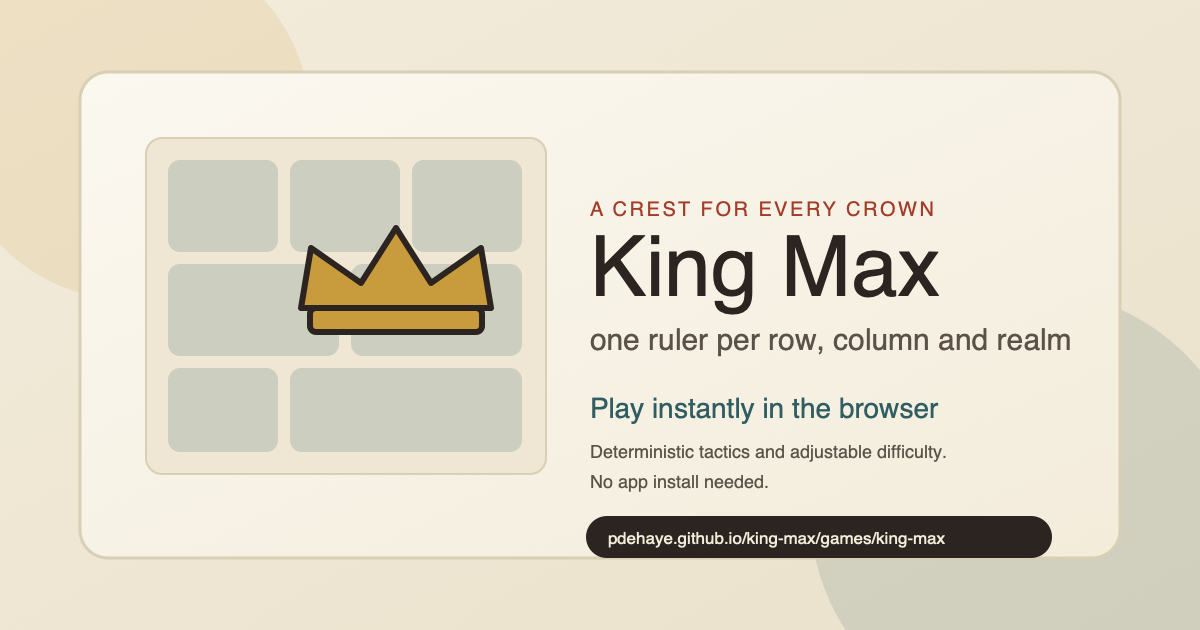
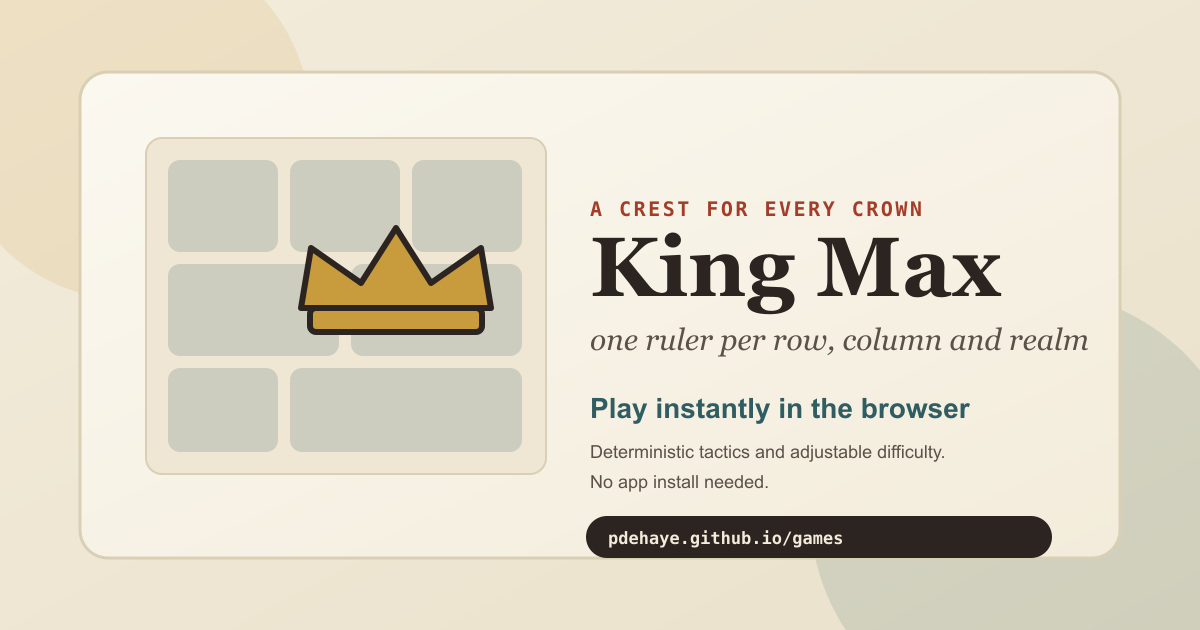
update pages paths for games
Point the Pages workflow and metadata at the repo-root GitHub Pages URL.
Keep local _site/ builds ignored while still generating them for verification and deployment.

diff --git a/index.html b/index.html
@@ -6,15 +6,15 @@
 <title>King Max</title>
 <meta name="description" content="King Max is a crown logic puzzle: place one crown per row, column, and region, with no touching crowns.">
 <meta name="theme-color" content="#2B2420">
-<link rel="canonical" href="https://pdehaye.github.io/king-max/games/king-max/">
+<link rel="canonical" href="https://pdehaye.github.io/games/">
 
 <meta property="og:type" content="website">
 <meta property="og:site_name" content="King Max">
 <meta property="og:title" content="King Max - Crown Logic Puzzle">
 <meta property="og:description" content="A deterministic crown puzzle with one ruler per row, column, and realm.">
-<meta property="og:url" content="https://pdehaye.github.io/king-max/games/king-max/">
-<meta property="og:image" content="https://pdehaye.github.io/king-max/games/king-max/social-preview.png">
-<meta property="og:image:secure_url" content="https://pdehaye.github.io/king-max/games/king-max/social-preview.png">
+<meta property="og:url" content="https://pdehaye.github.io/games/">
+<meta property="og:image" content="https://pdehaye.github.io/games/social-preview.png">
+<meta property="og:image:secure_url" content="https://pdehaye.github.io/games/social-preview.png">
 <meta property="og:image:type" content="image/png">
 <meta property="og:image:width" content="1200">
 <meta property="og:image:height" content="630">
@@ -23,7 +23,7 @@
 <meta name="twitter:card" content="summary_large_image">
 <meta name="twitter:title" content="King Max - Crown Logic Puzzle">
 <meta name="twitter:description" content="Place one crown per row, column, and region. No touching crowns.">
-<meta name="twitter:image" content="https://pdehaye.github.io/king-max/games/king-max/social-preview.png">
+<meta name="twitter:image" content="https://pdehaye.github.io/games/social-preview.png">
 <meta name="twitter:image:alt" content="King Max puzzle preview with crown icon and game board.">
 <link rel="stylesheet" href="./styles.css">
 </head>

diff --git a/.github/README.md b/.github/README.md
@@ -1,6 +1,6 @@
-# king-max
+# games
 
-This repo is hosted on GitHub Pages at [https://pdehaye.github.io/](https://pdehaye.github.io/).
+This repo is hosted on GitHub Pages at [https://pdehaye.github.io/games/](https://pdehaye.github.io/games/).
 
 ## Agentic Setup
 

diff --git a/README.md b/README.md
@@ -1,3 +1,3 @@
-# king-max
+# games
 
-This repo is hosted on GitHub Pages at [https://pdehaye.github.io/](https://pdehaye.github.io/).
+This repo is hosted on GitHub Pages at [https://pdehaye.github.io/games/](https://pdehaye.github.io/games/).